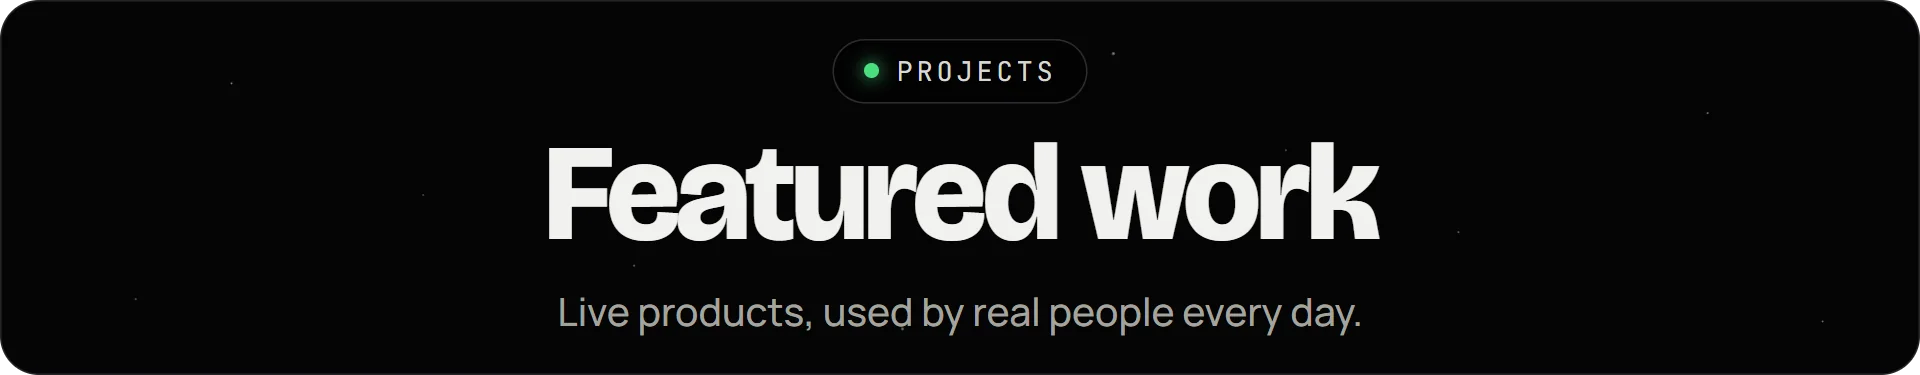
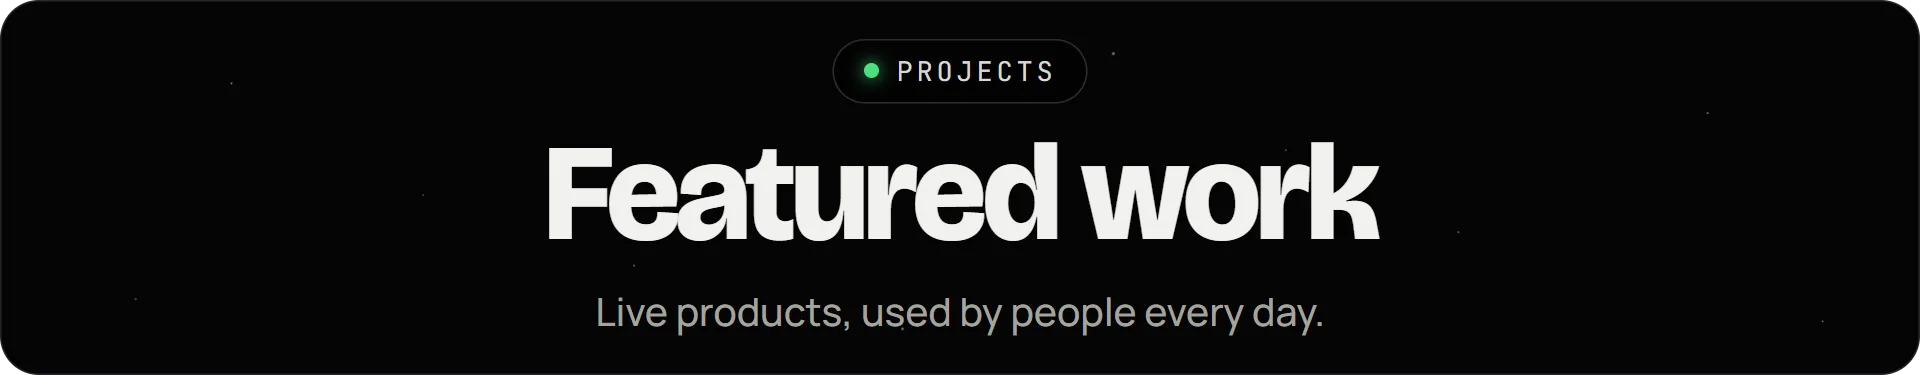
Reword Featured work subtitle

Changed region(s): [[0.2812, 0.792, 0.7188, 0.88]]

diff --git a/README.md b/README.md
@@ -14,7 +14,7 @@
   <img src="assets/about.svg" width="100%" alt="Rakshit Gajera. Full Stack Developer and C programming Teaching Assistant at Darshan University, based in Rajkot, Gujarat, India. Focus: web and mobile apps, from database schema to deployment. Frontend: React, TypeScript, Next.js, Three.js. Backend: Node.js, Express, NestJS, Supabase. Data: PostgreSQL, MongoDB, MySQL, Redis. Mobile: Flutter, React Native, Android.">
 </picture>
 
-<img src="assets/head-client.webp" width="100%" alt="Featured work: live products, used by real people every day.">
+<img src="assets/head-client.webp" width="100%" alt="Featured work: live products, used by people every day.">
 
 <a href="https://zorko-somu.cafe/">
   <picture>
